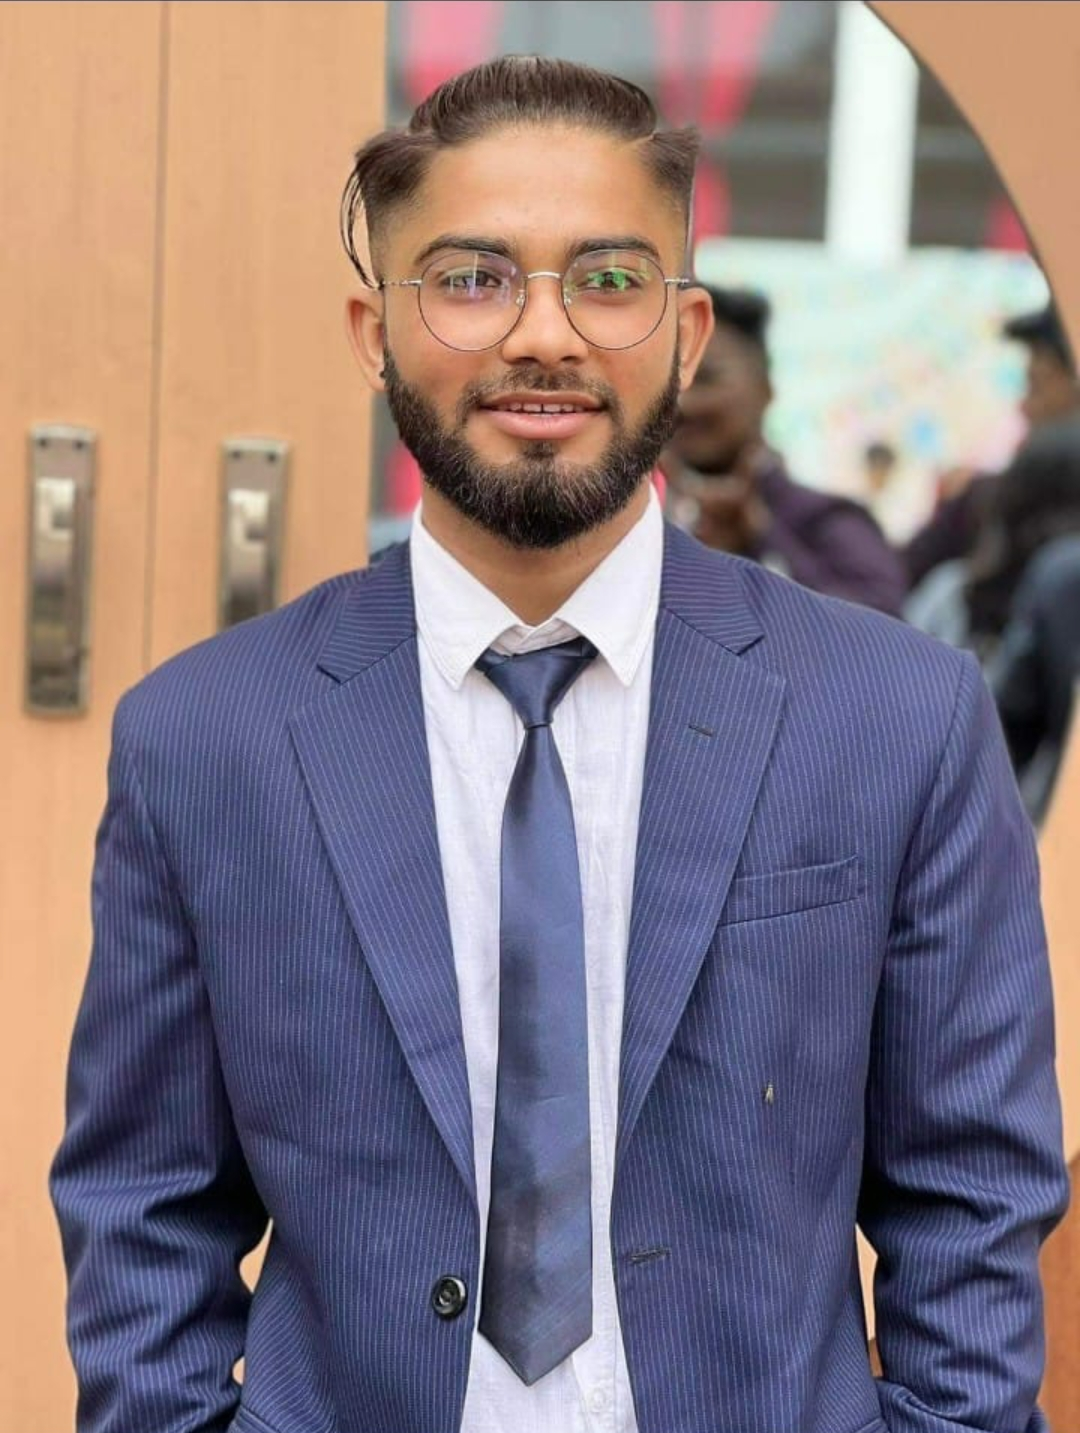
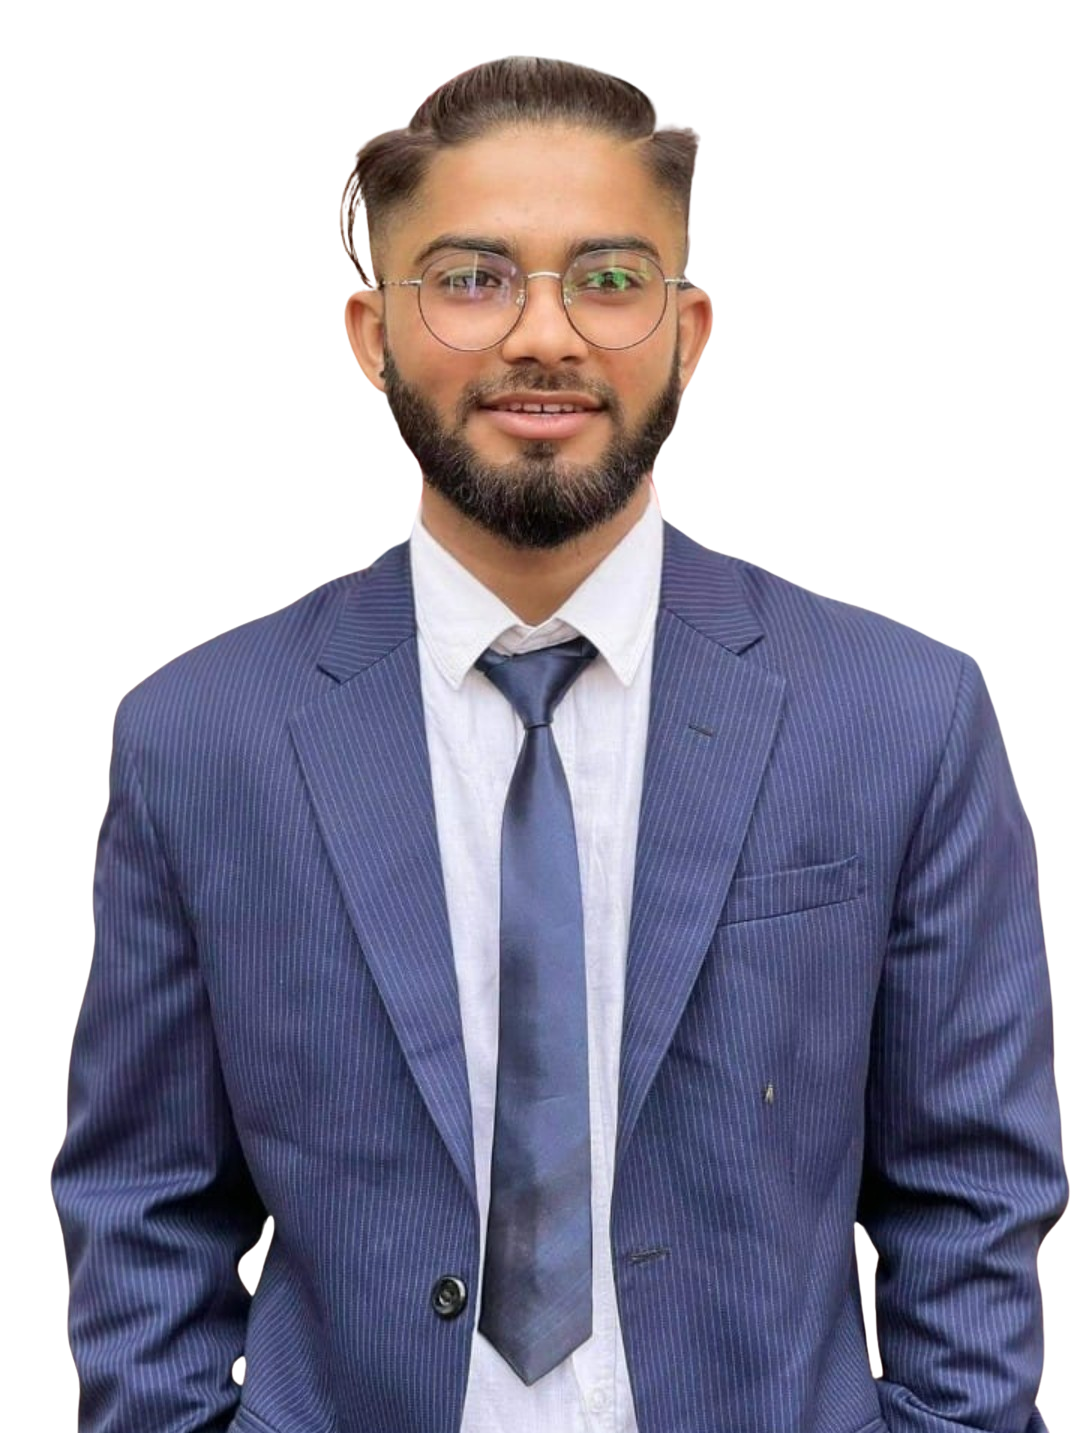
profile updated

diff --git a/index.html b/index.html
@@ -27,7 +27,7 @@
 </head>
 
 <body class="container-fluid body_section">
-  <header>
+  <header> 
     <nav class="navbar navbar-expand-lg navbar-light ">
       <a class="navbar-brand brand-name" href="#">Suraj Sah</a>
       <button class="navbar-toggler" type="button" data-toggle="collapse" data-target="#navbarSupportedContent"
@@ -53,13 +53,13 @@
             <a class="nav-link headerachor" href="contact.html">Contact Me</a>
           </li>
         </ul>
-    </nav>
+    </nav> 
   </header>
 
   <section id="Home">
     <div class="row column1">
-      <div class="col-lg-6 col-md-6 first-image">
-        <img class="boyimage" src="Image/20200630_162659.gif" alt="">
+      <div class=" first-image bc-gif">
+        <img class="boyimage " src="Image/profile.png" alt="">
       </div>
       <div class="col-lg-6 section-1">
         <h1 class="Hello">Hello All! I'm Suraj <span class="wave">👋</span></h1>
@@ -68,7 +68,7 @@
           scalable social and technical systems to create impact</p>
         <div class=social_media_icon>
           <a class="btn" href="https://www.instagram.com/surajshah190620/" target=_blank>
-            <i class="fab fa-instagram"></i>
+            <i class="fab fa-instagram"></i> 
           </a>
           <a class="btn" href="https://www.linkedin.com/in/suraj-sah-54b992236/" target=_blank>
             <i class="fab fa-linkedin" aria-hidden="true"></i>
@@ -81,12 +81,12 @@
           </a>
         </div>
       </div>
-      <div class="Image-boy col-lg-6"><img class="boy" src="Image/Boy-image.png" alt=""></div>
+      <div class="Image-boy col-lg-6"><img class="boy" src="Image/profile.png" alt=""></div>
     </div>
   </section>
 
 
-  <section id=Whatido>
+  <section id="Whatido">
     <h1>What I Do ?</h1>
     <div class="row feature-1">
       <div class="col-lg-6 col-md-6 Feature-first-image ">

diff --git a/style.css b/style.css
@@ -74,10 +74,13 @@ span.wave {
 
 .first-image{
     position: absolute;
-    right:0;
+    right: 30%;
 }
 .boyimage{
   height: 400px;
+  animation: bounce 1.2s;
+  animation-direction: alternate;
+  animation-iteration-count: infinite;
 }
 
 @media only screen and (max-width : 1183px){
@@ -325,4 +328,9 @@ footer{
   padding-top: 2%;
   color: #868e96;
   text-align: center;
+}
+
+.bc-gif{
+  background-image: url('./Image/bc2.gif');
+  background-repeat: no-repeat;
 }
